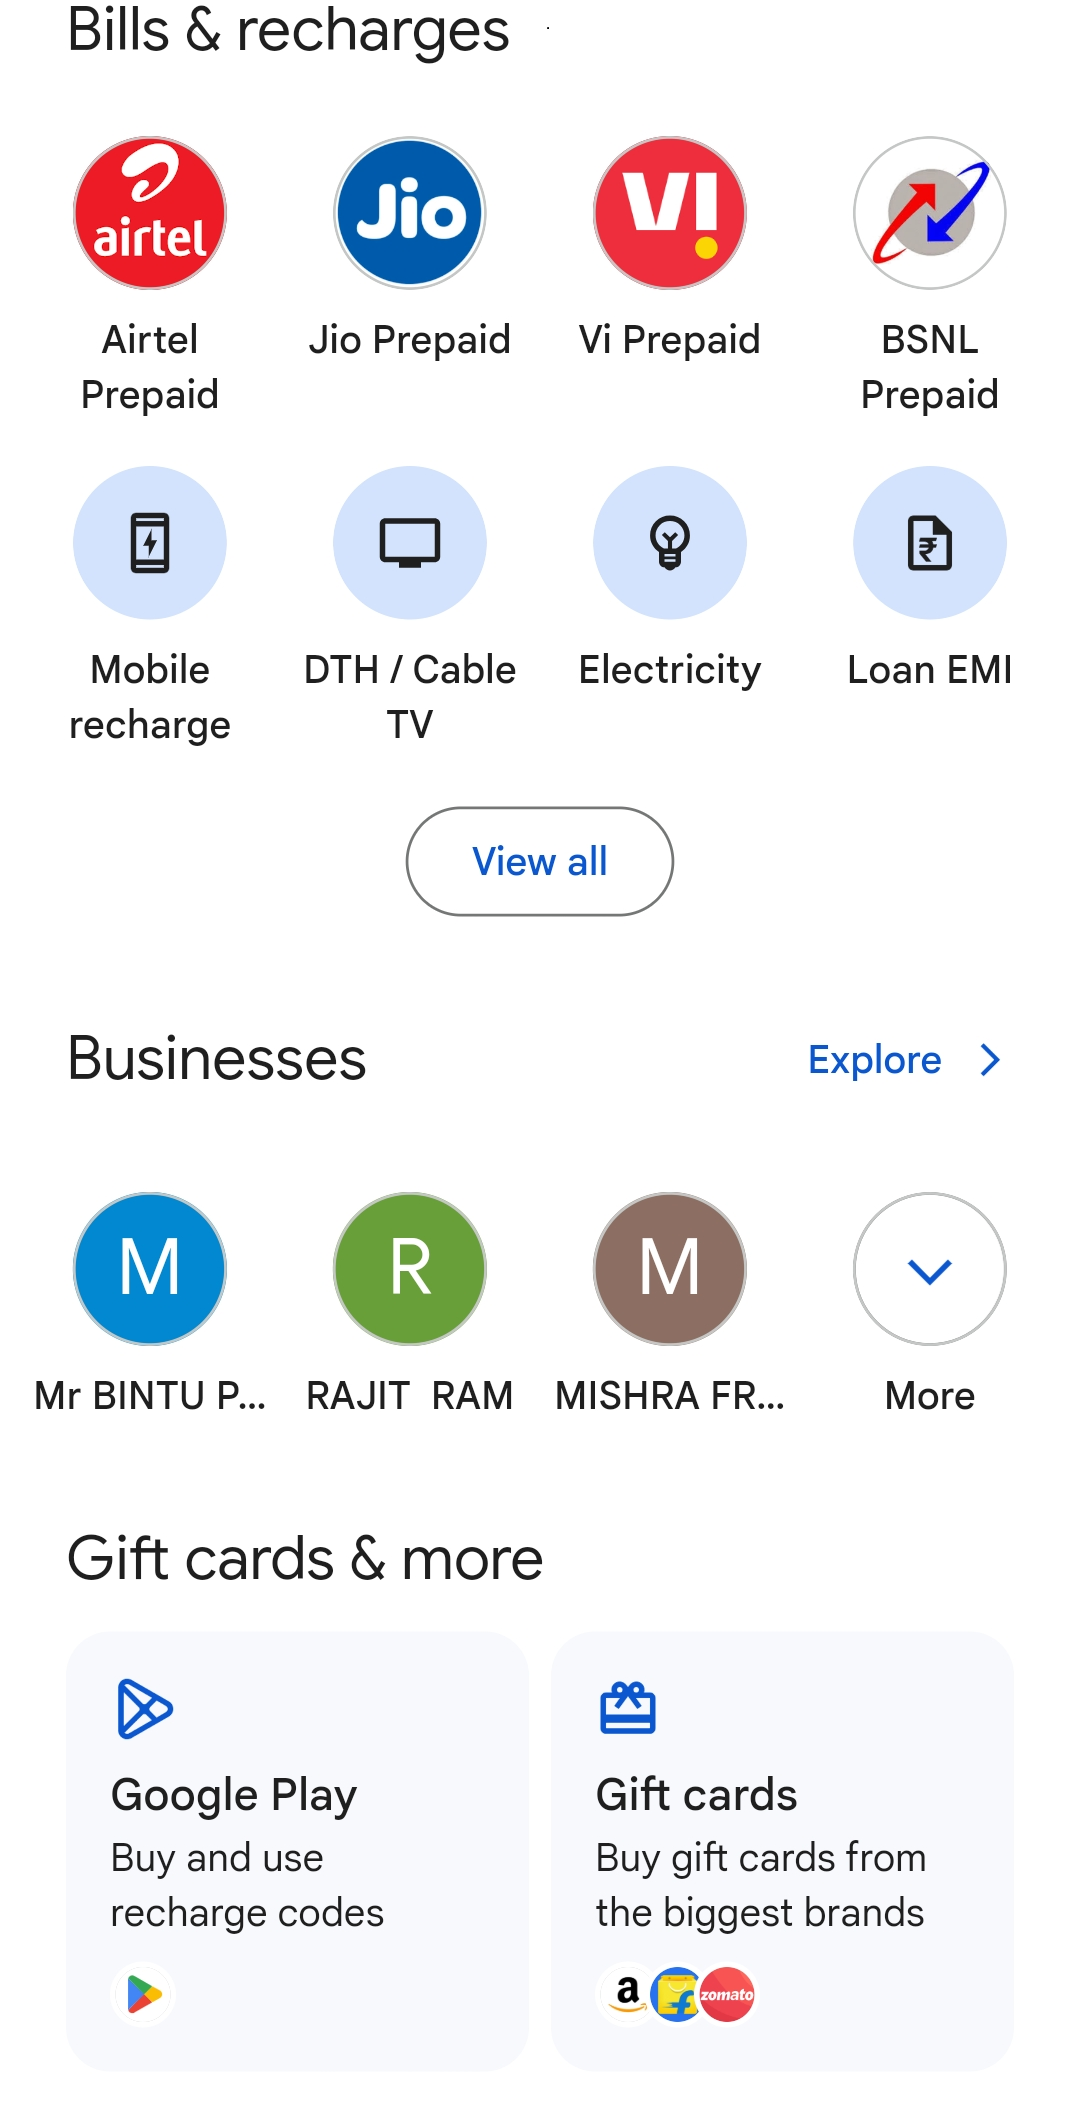
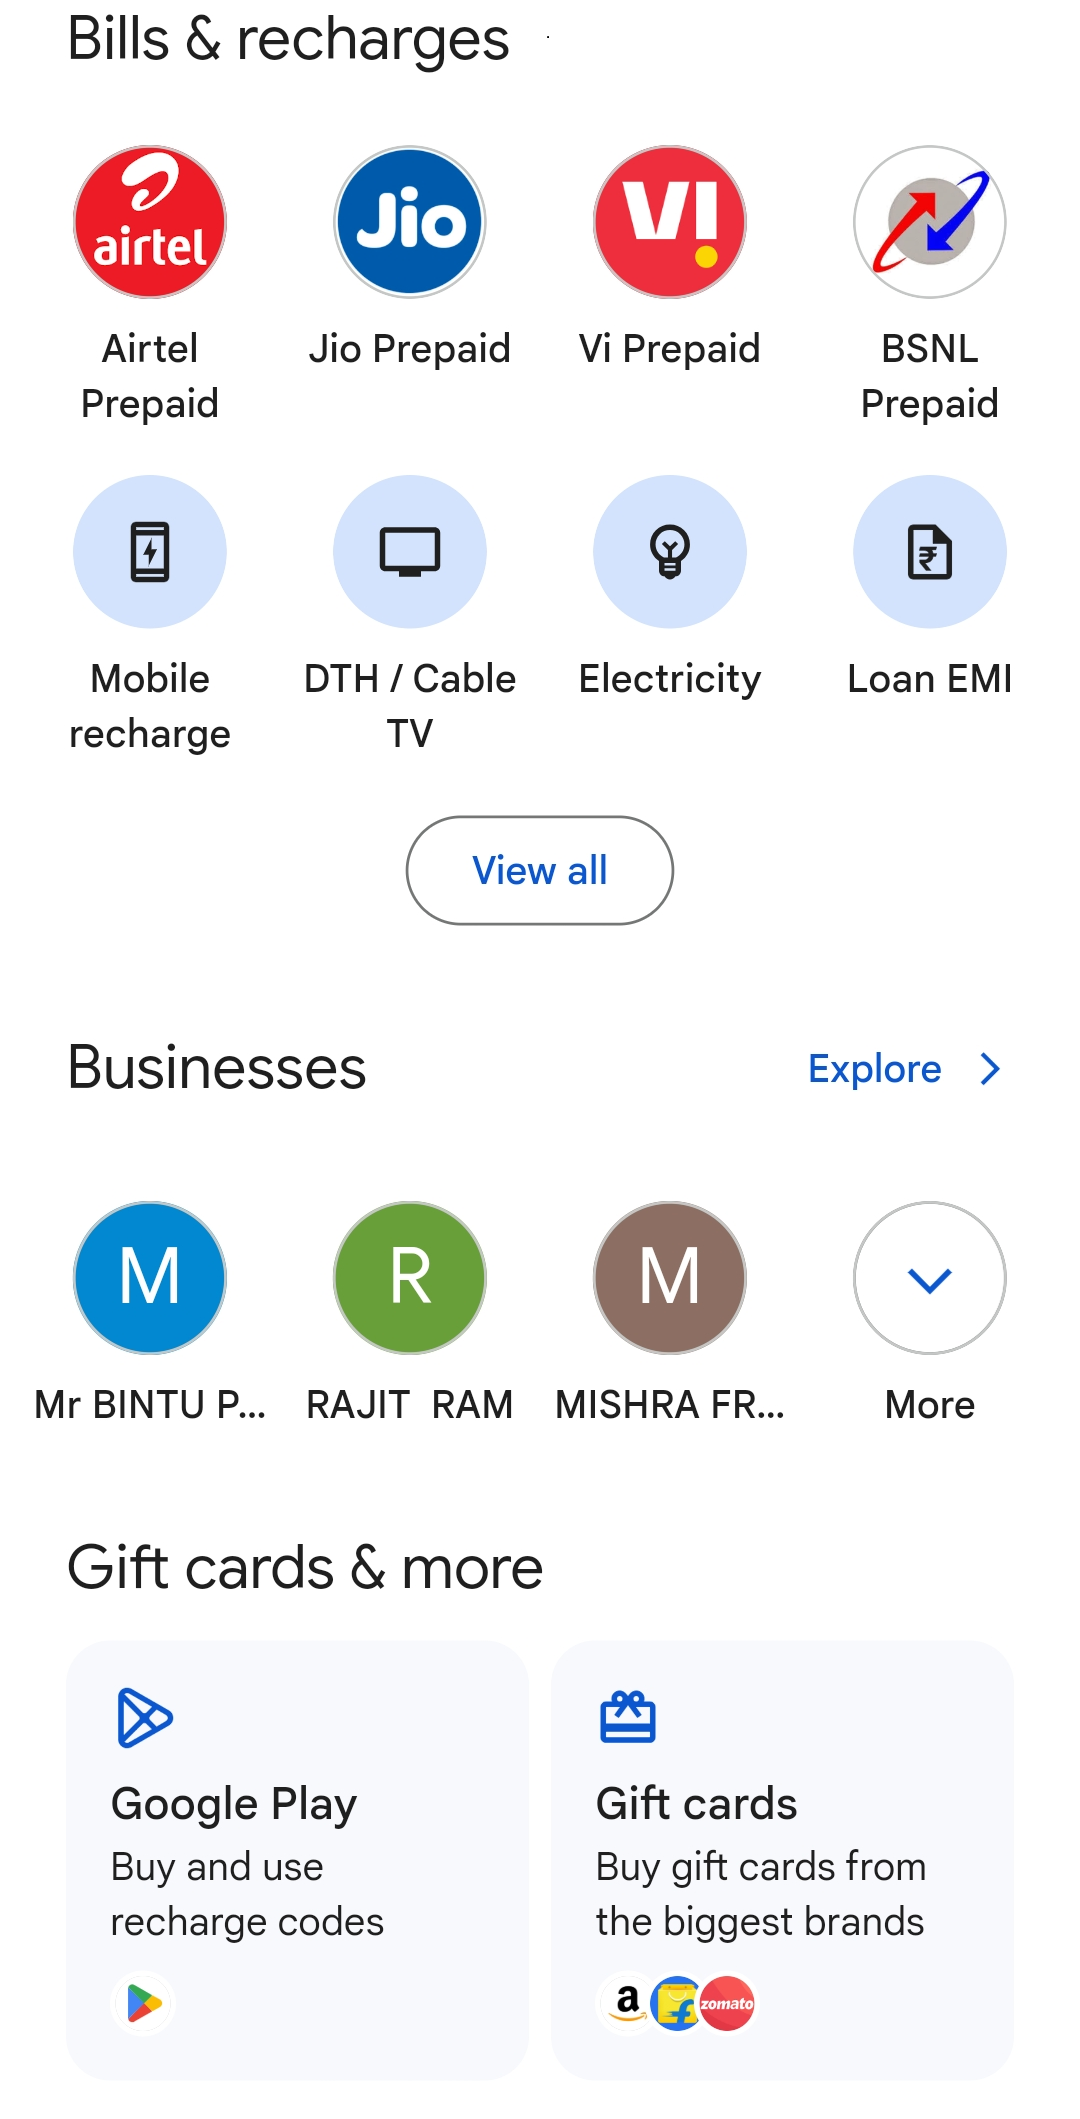
home imge width

diff --git a/src/pages/bankCss.css b/src/pages/bankCss.css
@@ -4,7 +4,7 @@
     height: 100vh;
     width: 100%;
     /* margin-left : 25%; */
-    background-image:  url(".././assets//images/home1_a_p.png");
+    background-image:  url(".././assets//images/home1_a_p_2.png");
     background-size:contain ;
     background-repeat: no-repeat;
 
